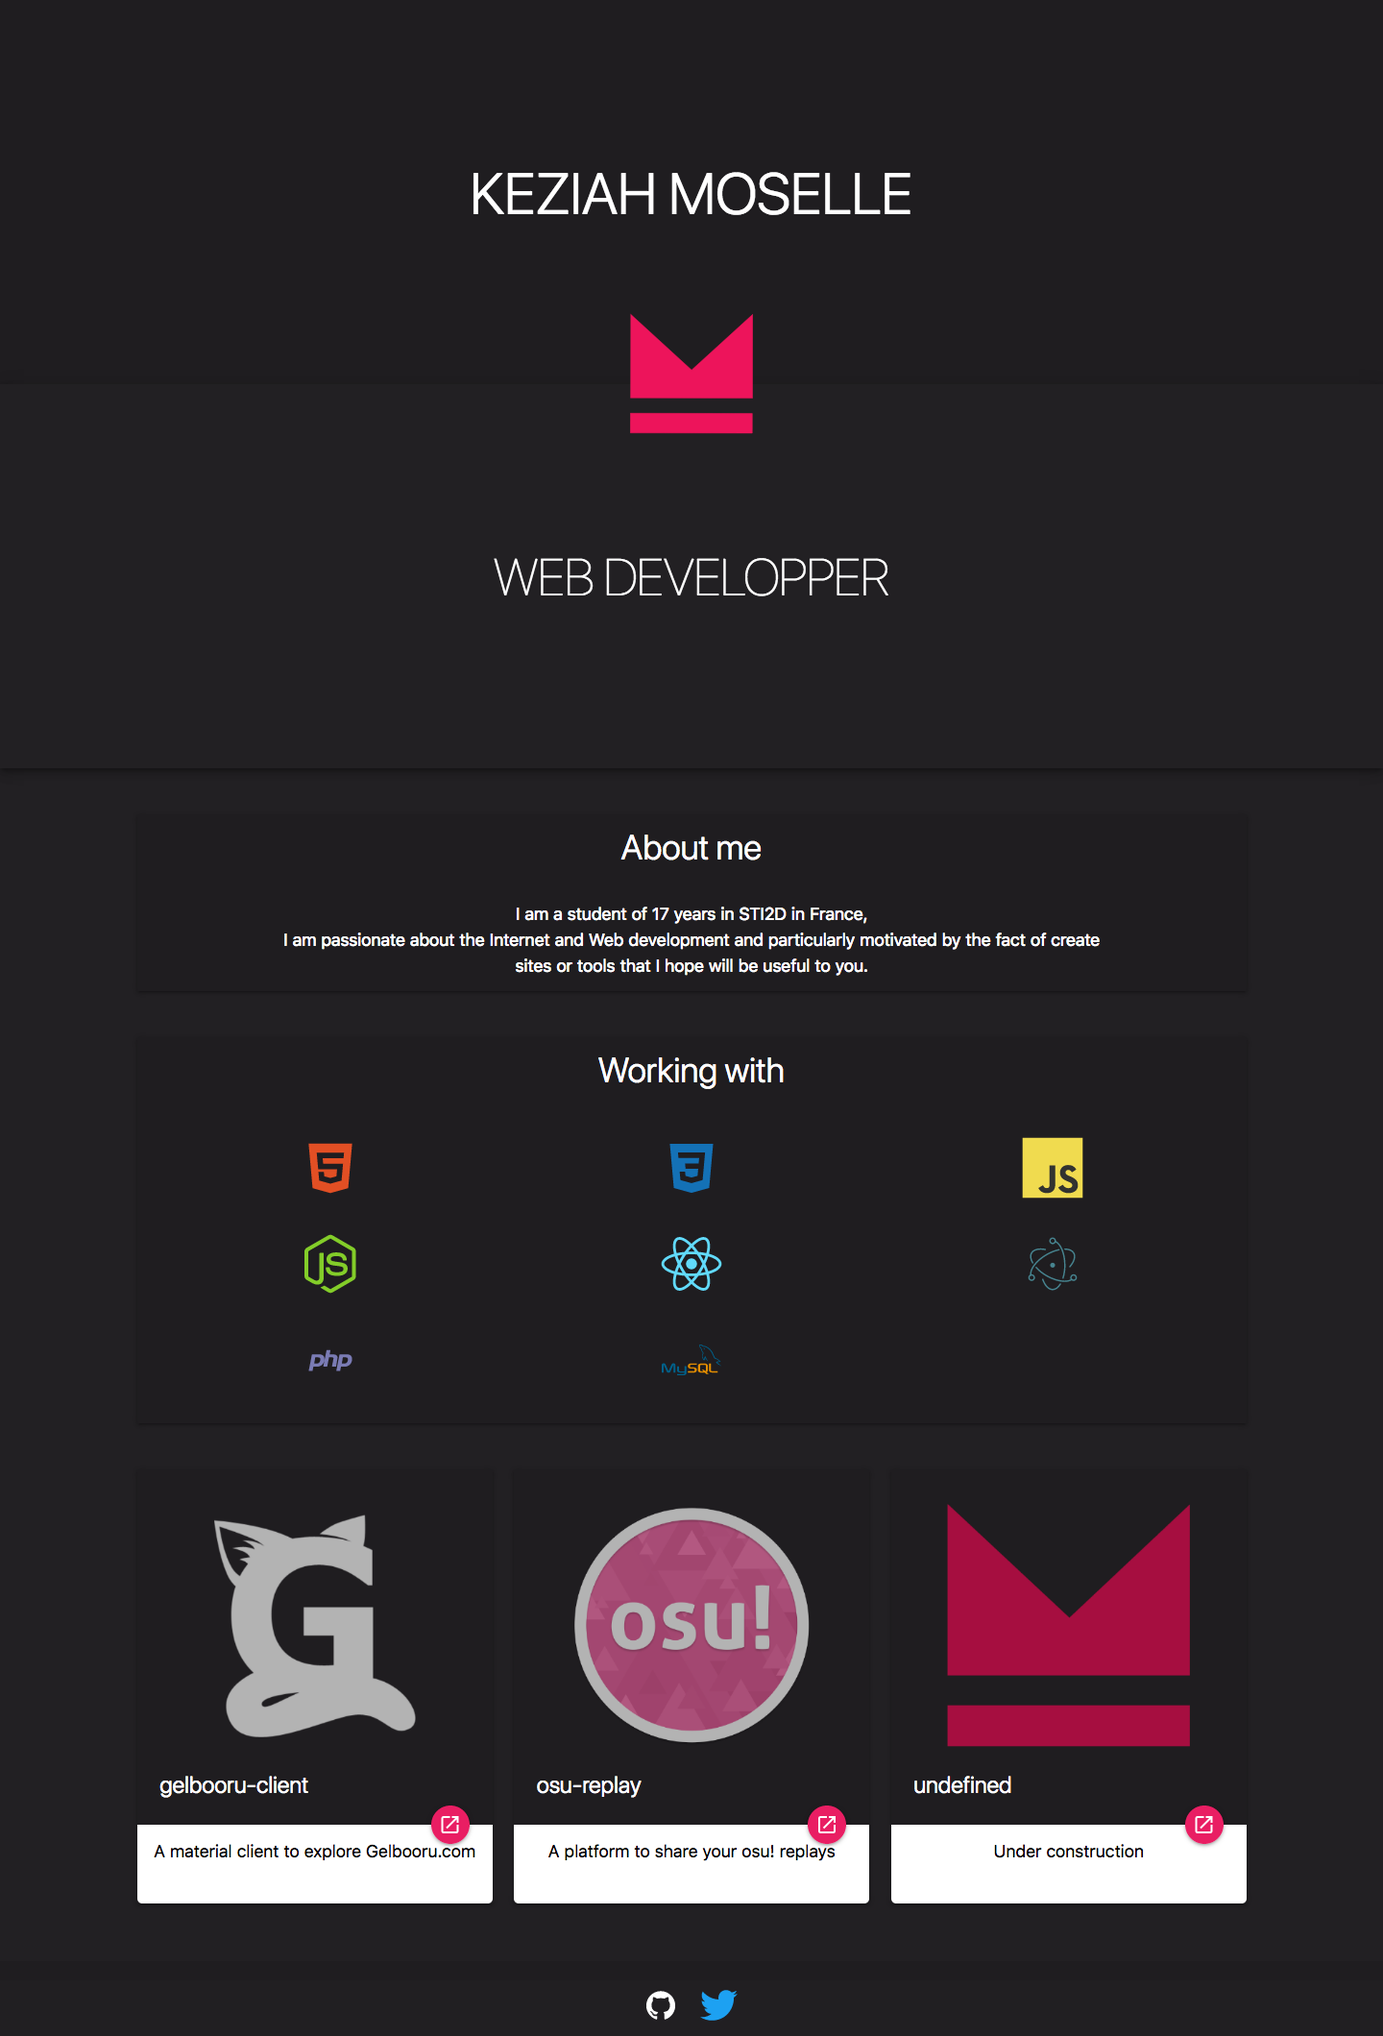
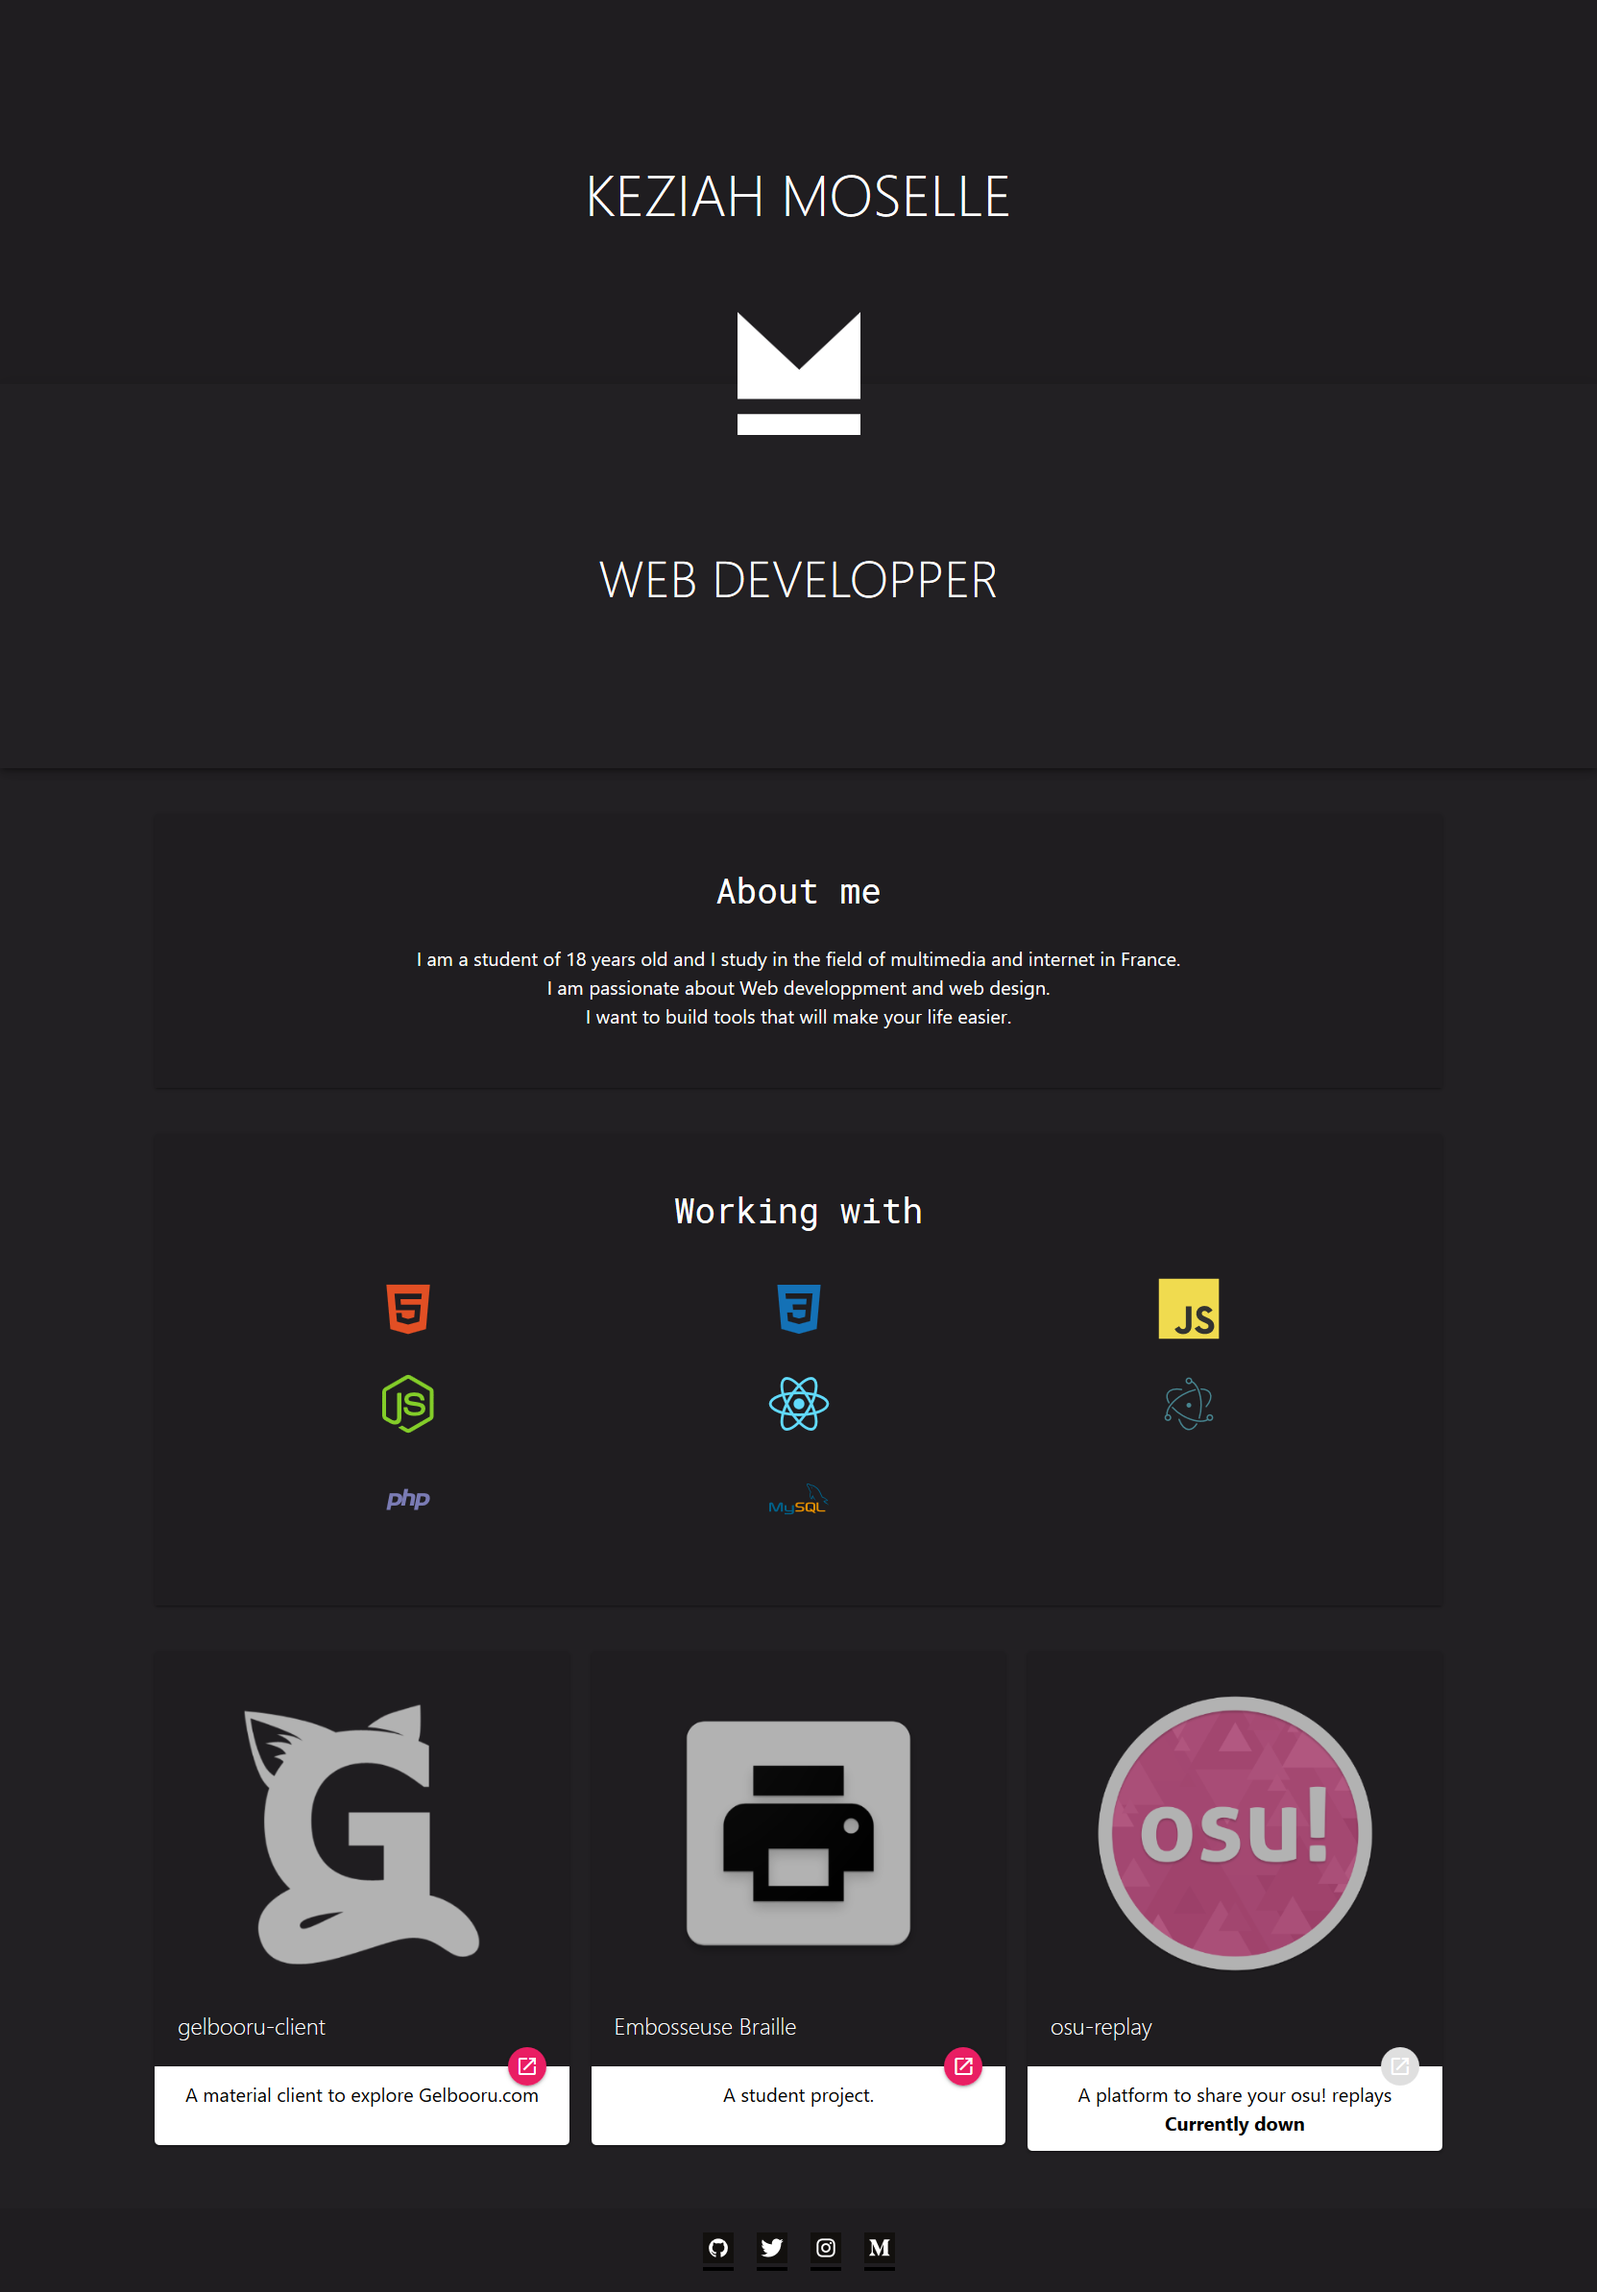
Updated design + Add footer links
- Edited colors
- Change font for titles
- Update osu-replay card
- Add Instagram & Medium links
- More padding for "About" and "Working with" blocks for more clarity

diff --git a/index.html b/index.html
@@ -35,13 +35,12 @@
                 <div class="col s12 m10 offset-m1">
                     <div class="col s12">
                         <div class="card">
-                            <div class="card-content text">
+                            <div class="block card-content text">
                                 <h3>About me</h3>
                                 <p>
-                                    I am a student of 17 years in STI2D in France,<br/>
-                                    I am passionate about the Internet and Web development and 
-                                    particularly motivated by the fact of create<br/>
-                                    sites or tools that I hope will be useful to you.
+                                    I am a student of 18 years old and I study in the field of multimedia and internet in France.<br>
+                                    I am passionate about Web developpment and web design.<br>
+                                    I want to build tools that will make your life easier.
                                 </p>
                             </div>
                         </div>
@@ -53,23 +52,23 @@
                 <div class="col s12 m10 offset-m1">
                     <div class="col s12">
                         <div class="card">
-                            <div class="card-content text">
+                            <div class="block card-content text">
                                 <h3>Working with</h3>
                                 <table class="centered">
                                     <tbody>
                                         <tr>
-                                            <td><img src="assets/icons/html5.svg" alt="HTML"></td>
-                                            <td><img src="assets/icons/css3.svg" alt="CSS"></td>
-                                            <td><img src="assets/icons/javascript-original.svg" alt="JavaScript"></td>
+                                            <td><img src="assets/icons/tech/html5.svg" alt="HTML"></td>
+                                            <td><img src="assets/icons/tech/css3.svg" alt="CSS"></td>
+                                            <td><img src="assets/icons/tech/javascript-original.svg" alt="JavaScript"></td>
                                         </tr>
                                         <tr>
-                                            <td><img src="assets/icons/nodejs-original.svg" alt="NodeJS"></td>
-                                            <td><img src="assets/icons/react-original.svg" alt="React Native"></td>
-                                            <td><img src="assets/icons/electron-original.svg" alt="Electron"></td>
+                                            <td><img src="assets/icons/tech/nodejs-original.svg" alt="NodeJS"></td>
+                                            <td><img src="assets/icons/tech/react-original.svg" alt="React Native"></td>
+                                            <td><img src="assets/icons/tech/electron-original.svg" alt="Electron"></td>
                                         </tr>
                                         <tr>
-                                            <td><img src="assets/icons/php.svg" alt="PHP"></td>
-                                            <td><img src="assets/icons/mysql-original-wordmark.svg" alt="MySQL"></td>
+                                            <td><img src="assets/icons/tech/php.svg" alt="PHP"></td>
+                                            <td><img src="assets/icons/tech/mysql-original-wordmark.svg" alt="MySQL"></td>
                                         </tr>
                                     </tbody>
                                 </table>
@@ -85,7 +84,7 @@
                     <div class="col s12 l4">
                         <div class="card">
                             <div class="card-image">
-                                <img src="./assets/icons/gelbooru.png">
+                                <img src="./assets/icons/project/gelbooru.png">
                                 <span class="card-title">gelbooru-client</span>
                                 <a href="https://keziahmoselle.github.io/gelbooru-client/" class="btn-floating halfway-fab waves-effect waves-light pink"><i class="material-icons">open_in_new</i></a>
                             </div>
@@ -100,13 +99,13 @@
                     <div class="col s12 l4">
                         <div class="card">
                             <div class="card-image">
-                                <img src="./assets/icons/embosseuse_braille.png">
+                                <img src="./assets/icons/project/embosseuse_braille.png">
                                 <span class="card-title">Embosseuse Braille</span>
                                 <a href="https://play.google.com/store/apps/details?id=com.embosseusebraille" class="btn-floating halfway-fab waves-effect waves-light pink"><i class="material-icons">open_in_new</i></a>
                             </div>
                             <div class="project card-content">
                                 <p>
-                                    Application qui permet d'embosser à distance
+                                    A student project.
                                 </p>
                             </div>
                         </div>
@@ -115,28 +114,14 @@
                     <div class="col s12 l4">
                         <div class="card">
                             <div class="card-image">
-                                <img src="./assets/icons/osu!.png">
+                                <img src="./assets/icons/project/osu!.png">
                                 <span class="card-title">osu-replay</span>
-                                <a href="http://osureplay.tk/" class="btn-floating halfway-fab waves-effect waves-light pink"><i class="material-icons">open_in_new</i></a>
+                                <a disabled href="http://osureplay.tk/" class="btn-floating halfway-fab waves-effect waves-light pink"><i class="material-icons">open_in_new</i></a>
                             </div>
                             <div class="project card-content">
                                 <p>
                                     A platform to share your osu! replays
-                                </p>
-                            </div>
-                        </div>
-                    </div>
-
-                    <div class="col s12 l4">
-                        <div class="card">
-                            <div class="card-image">
-                                <img src="./assets/icons/KeziahMoselle.png">
-                                <span class="card-title">undefined</span>
-                                <a href="#" class="btn-floating halfway-fab waves-effect waves-light pink"><i class="material-icons">open_in_new</i></a>
-                            </div>
-                            <div class="project card-content">
-                                <p>
-                                    Under construction
+                                    <br><b>Currently down</b>
                                 </p>
                             </div>
                         </div>
@@ -149,12 +134,12 @@
         </main>
 
         <footer class="page-footer black">
-            <div class="footer-copyright">
-                <div class="container center-align">
-                    <a href="https://github.com/KeziahMoselle"><img src="assets/icons/github-original.svg" alt="GitHub"></a>
-                    <a href="https://twitter.com/KeziahMoselle"><img src="assets/icons/twitter-original.svg" alt="Twitter"></a>
-                </div>
-          </div>
+            <ul class="center-align">
+                <li><a href="https://github.com/KeziahMoselle"><img src="assets/icons/social/github.svg" alt="GitHub"></a></li>
+                <li><a href="https://twitter.com/KeziahMoselle"><img src="assets/icons/social/twitter.svg" alt="Twitter"></a></li>
+                <li><a href="https://www.instagram.com/keziahmoselle/"><img src="assets/icons/social/instagram.svg" alt="Instagram"></a></li>
+                <li><a href="https://medium.com/@keziahmoselle"><img src="assets/icons/social/medium.svg" alt="Medium"></a></li>
+            </ul>
         </footer>
 
         <script>

diff --git a/assets/css/style.css b/assets/css/style.css
@@ -1,3 +1,5 @@
+@import url('https://fonts.googleapis.com/css?family=Roboto+Mono');
+
 .purple {background-color: #ED145B !important;}
 .black {background-color: #1F1D20 !important;}
 .dark {background-color: #222023 !important;}
@@ -15,7 +17,7 @@
     }
 
     main {
-    flex: 1 0 auto;
+        flex: 1 0 auto;
     }
 
     h1, h2, h3 {
@@ -105,9 +107,9 @@
     }
 
     .card .card-content h3 {
-        text-align: center;
-        font-weight: 200;
+        font-family: 'Roboto Mono', monospace;
         font-size: 36px;
+        text-align: center;
         margin-bottom: 36px;
     }
 
@@ -117,7 +119,7 @@
 
     .card .card-content p {
         text-align: center;
-        font-size: 18px;
+        font-size: 20px;
     }
 
     .card .card-image img {
@@ -132,6 +134,10 @@
         padding: 14px;
         border-radius: 0 0 2px 2px;
         min-height: 82px;
+    }
+
+    .card .block.card-content {
+        padding: 60px;
     }
 
     .project.card-content {
@@ -149,8 +155,30 @@
 
 /* FOOTER */
 
-    footer a img {
+    .page-footer {
+        padding: 10px;
+    }
+
+    footer ul li {
+        display: inline-block;
         padding: 0 10px 0 10px;
+    }
+
+    footer a {
+        border-bottom: #000000 4px solid;
+        transition-duration: 200ms;
+    }
+
+    footer a:hover {
+        border-bottom: #FFFFFF 4px solid;
+    }
+
+    footer a img {
+        height: 32px;
+        width: auto;
+    }
+
+    footer a img:hover {
         height: 32px;
         width: auto;
     }
